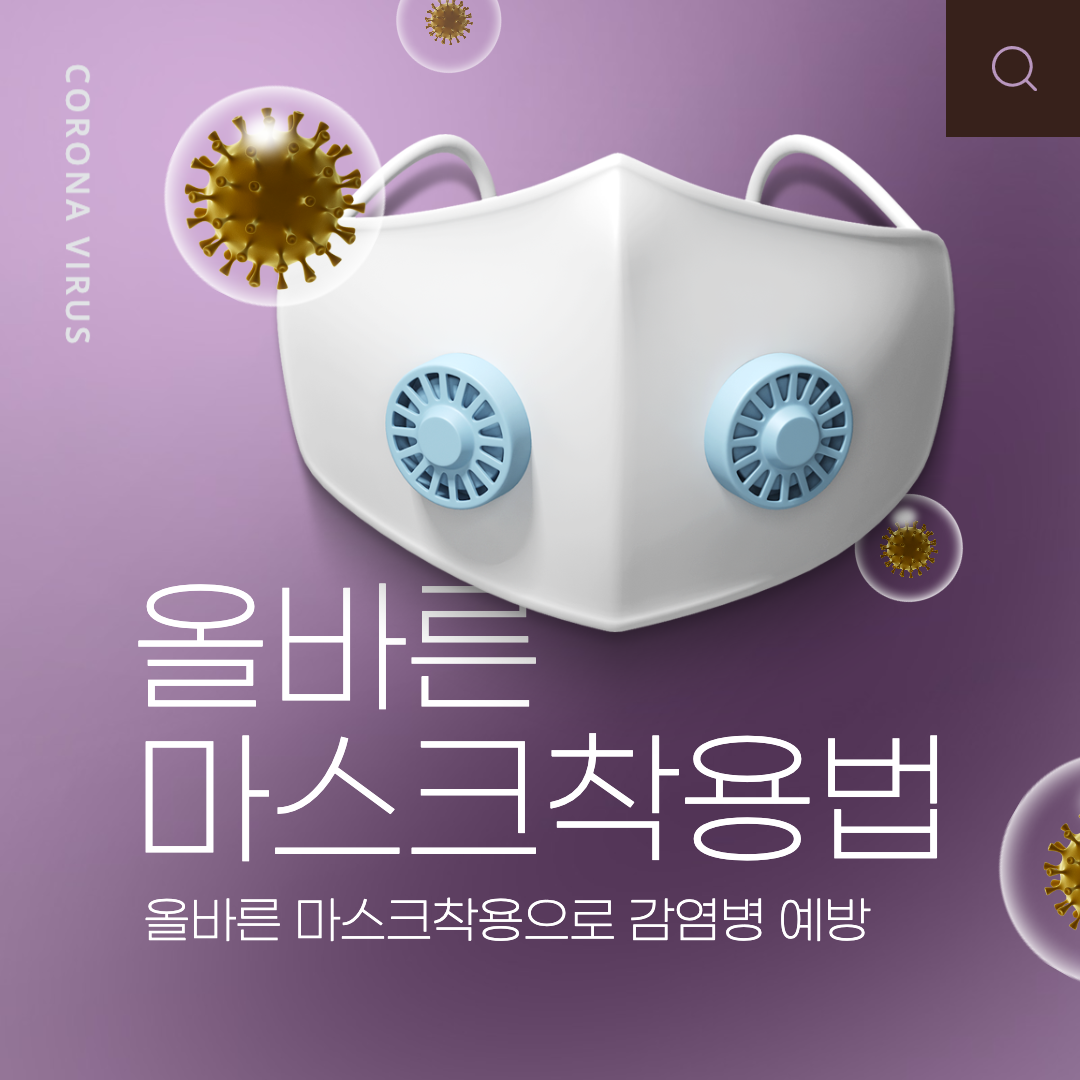
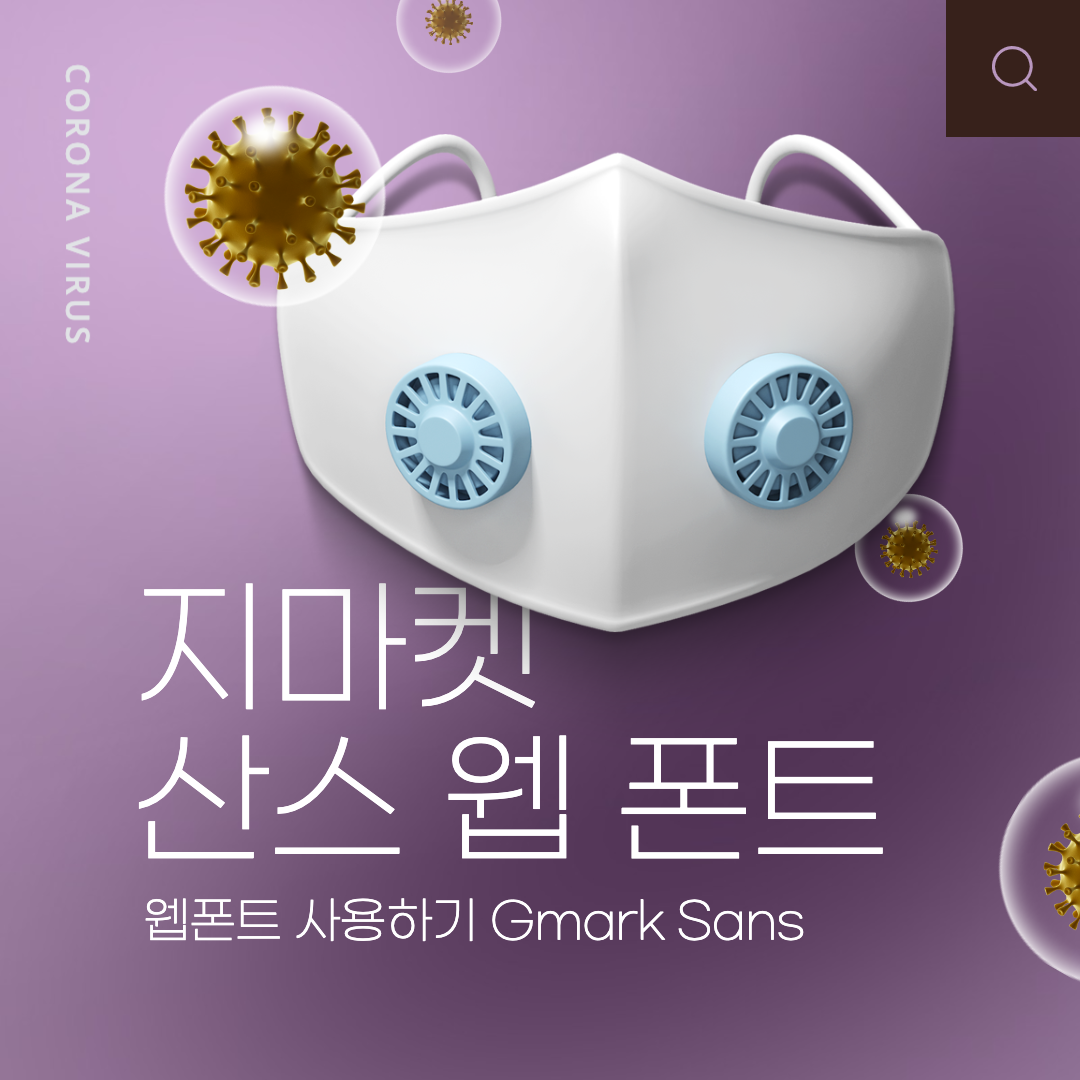
2021.09.23

diff --git a/index.html b/index.html
@@ -109,9 +109,16 @@
             </div>
         </div>
 
-        <p class="codepen" data-height="800" data-theme-id="26135" data-default-tab="result" data-slug-hash="QWgmoQN" data-user="webstoryboy" style="height: 800px; box-sizing: border-box; display: flex; align-items: center; justify-content: center; border: 2px solid; margin: 1em 0; padding: 1em;">
-            <span>See the Pen <a href="https://codepen.io/webstoryboy/pen/QWgmoQN">
-            검은 고딕</a> by Webstoryboy (<a href="https://codepen.io/webstoryboy">@webstoryboy</a>)
+        <p class="codepen" data-height="800" data-theme-id="26135" data-default-tab="result" data-slug-hash="VwWdEMa" data-user="webstoryboy" style="height: 800px; box-sizing: border-box; display: flex; align-items: center; justify-content: center; border: 2px solid; margin: 1em 0; padding: 1em;">
+            <span>See the Pen <a href="https://codepen.io/webstoryboy/pen/VwWdEMa">
+            지마켓산스체</a> by Webstoryboy (<a href="https://codepen.io/webstoryboy">@webstoryboy</a>)
+            on <a href="https://codepen.io">CodePen</a>.</span>
+        </p>
+        <script async src="https://cpwebassets.codepen.io/assets/embed/ei.js"></script>
+        <br>
+        <p class="codepen" data-height="800" data-theme-id="26135" data-default-tab="result" data-slug-hash="powKxax" data-user="webstoryboy" style="height: 800px; box-sizing: border-box; display: flex; align-items: center; justify-content: center; border: 2px solid; margin: 1em 0; padding: 1em;">
+            <span>See the Pen <a href="https://codepen.io/webstoryboy/pen/powKxax">
+            지마켓산스체</a> by Webstoryboy (<a href="https://codepen.io/webstoryboy">@webstoryboy</a>)
             on <a href="https://codepen.io">CodePen</a>.</span>
         </p>
         <script async src="https://cpwebassets.codepen.io/assets/embed/ei.js"></script>

diff --git a/fonts.css b/fonts.css
@@ -1,6 +1,6 @@
 @font-face {
     font-family: 'GmarketSans';
-    font-weight: 300; 
+    font-weight: 700; 
     font-style: normal; 
     src: url(https://cdn.jsdelivr.net/gh/webfontworld/GmarketSans/GmarketSansTTFBold.woff2) format('woff2'),
          url(https://cdn.jsdelivr.net/gh/webfontworld/GmarketSans/GmarketSansTTFBold.woff) format('woff');
@@ -16,7 +16,7 @@
 }
 @font-face {
     font-family: 'GmarketSans';
-    font-weight: 700; 
+    font-weight: 300; 
     font-style: normal; 
     src: url(https://cdn.jsdelivr.net/gh/webfontworld/GmarketSans/GmarketSansTTFLight.woff2) format('woff2'),
          url(https://cdn.jsdelivr.net/gh/webfontworld/GmarketSans/GmarketSansTTFLight.woff) format('woff');
